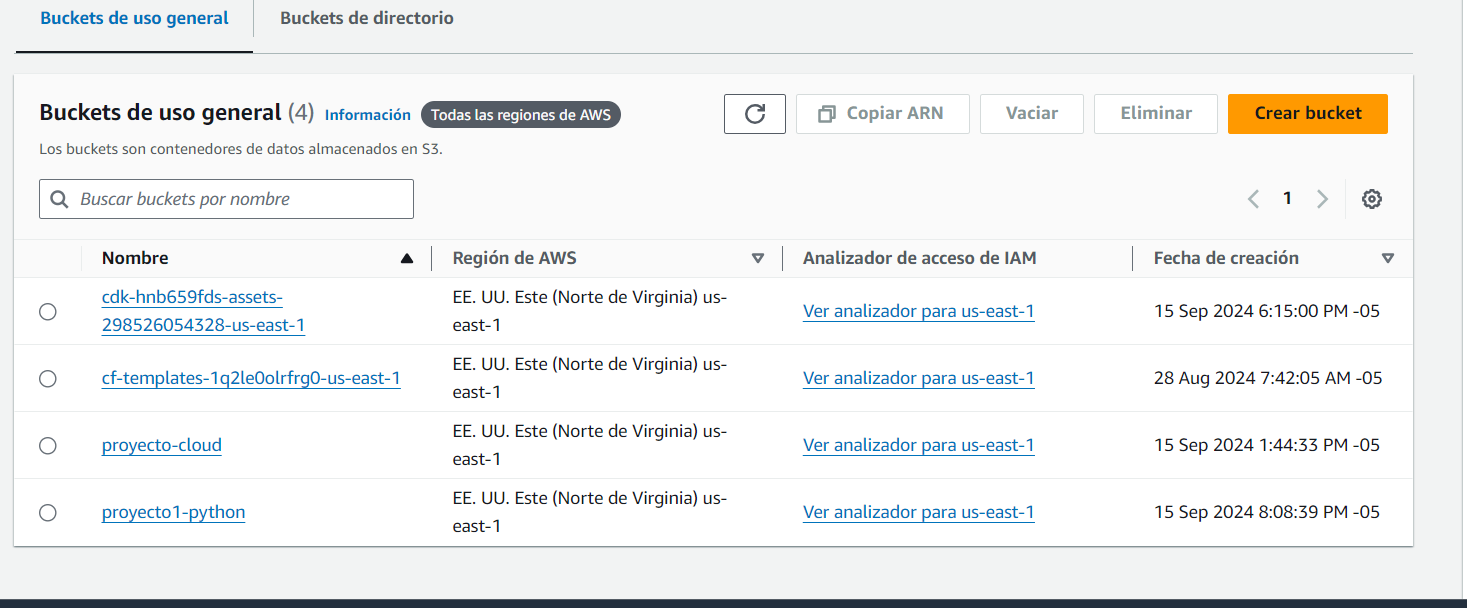
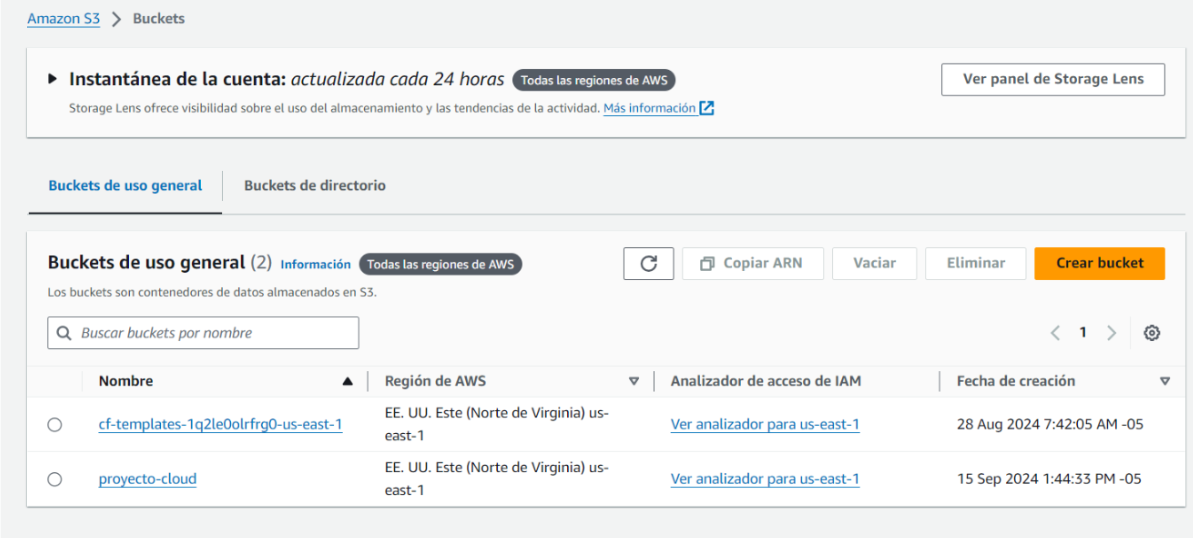
readme

diff --git a/README.md b/README.md
@@ -9,6 +9,8 @@ Guadamos las credenciales en el directorio de .aws con el siguiente comando
    ```bash
    notepad $env:USERPROFILE.aws\credentials
    ```
+Utilizamos el bucket creado anteriomente
+![Creación del bucket](./images/1.png)
 
 Buscamos nuestra id del AMI
 
@@ -25,18 +27,6 @@ Creamos un archivo en vscode de python con los sigueintes comandos
    ```
 
 Ajustamos el codigo de tal manera que utilice las credenciales y tenaga los roles establecidos para que pueda abirir los puertos 8080 y 8081
-Utilizamos el siguiente codigo para definir el `synthesizer` con los roles y el bucket especificado que queremos crear
-
-    ```bash
-    synthesizer = cdk.DefaultStackSynthesizer(
-        file_assets_bucket_name="proyecto-cloud",
-        bucket_prefix="",
-        cloud_formation_execution_role="arn:aws:iam::298526054328:role/LabRole",
-        deploy_role_arn="arn:aws:iam::298526054328:role/LabRole",
-        file_asset_publishing_role_arn="arn:aws:iam::298526054328:role/LabRole",
-        image_asset_publishing_role_arn="arn:aws:iam::298526054328:role/LabRole"
-    )
-    ```
 
 Usamos los siguietes comando para deployar
 
